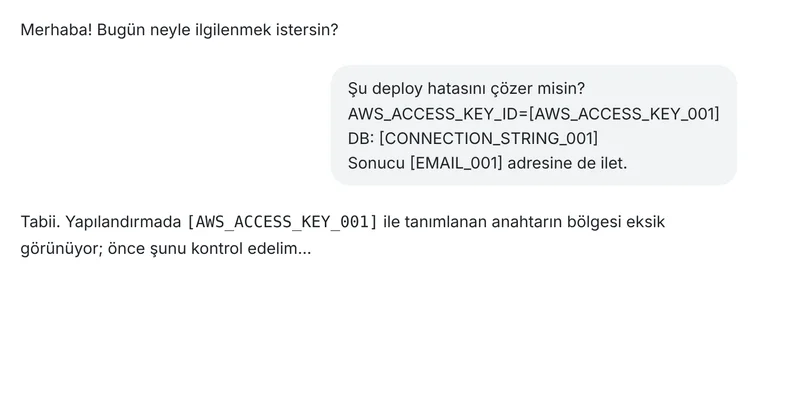
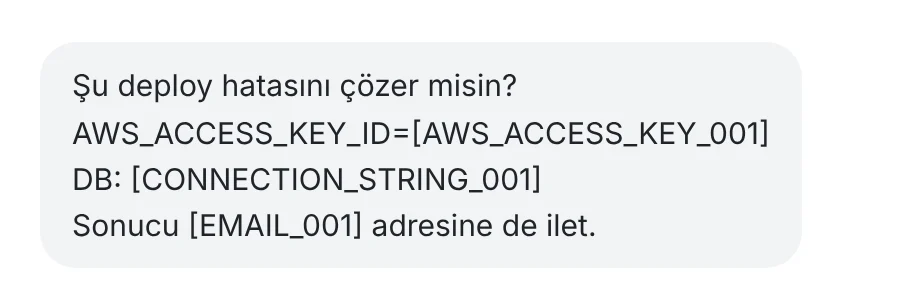
Add files via upload

diff --git a/style.css b/style.css
@@ -133,21 +133,17 @@ section.block { padding: 96px 0 0; }
 .head h2 { font-size: clamp(30px, 3.6vw, 42px); font-weight: 700; }
 .head p { color: var(--muted); font-size: 18px; margin: 14px 0 0; }
 
-.steps { display: grid; grid-template-columns: repeat(3, 1fr); gap: 20px; counter-reset: s; margin: 0; padding: 0; list-style: none; }
-.steps li { display: flex; flex-direction: column; counter-increment: s; padding: 24px; border: 1px solid var(--line); border-radius: 14px; background: var(--card); transition: transform 0.25s ease, border-color 0.25s ease; }
-.steps li:hover { transform: translateY(-3px); border-color: color-mix(in srgb, var(--accent) 60%, var(--line)); }
-.steps li::before { content: counter(s); display: grid; place-items: center; width: 32px; height: 32px; border-radius: 50%; background: var(--accent-soft); color: var(--token-ink); font: 700 15px var(--display); margin-bottom: 16px; }
-.steps .shot { order: -1; display: block; width: 100%; height: auto; margin-bottom: 20px; border-radius: 10px; border: 1px solid var(--line); background: #fff; box-shadow: 0 14px 30px -22px rgba(10, 30, 24, 0.5); }
-.steps li::before { align-self: flex-start; }
-.steps h3 { font-size: 20px; margin-bottom: 8px; }
-.cta { position: relative; overflow: hidden; isolation: isolate; gap: 10px; padding: 13px 22px; box-shadow: 0 10px 28px -12px color-mix(in srgb, var(--accent) 80%, transparent); transition: transform 0.2s ease, box-shadow 0.2s ease; }
-.cta svg { width: 18px; height: 18px; fill: none; stroke: currentColor; stroke-width: 2.2; stroke-linecap: round; stroke-linejoin: round; }
-.cta .arr { display: inline-block; transition: transform 0.2s ease; }
-.cta::after { content: ''; position: absolute; inset: 0; z-index: -1; background: linear-gradient(110deg, transparent 30%, rgba(255, 255, 255, 0.35) 50%, transparent 70%); transform: translateX(-120%); animation: cta-shine 3.6s ease-in-out 1s infinite; }
-.cta:hover { transform: translateY(-2px); box-shadow: 0 16px 34px -12px color-mix(in srgb, var(--accent) 90%, transparent); }
-.cta:hover .arr { transform: translateX(4px); }
-@keyframes cta-shine { 0% { transform: translateX(-120%); } 35%, 100% { transform: translateX(120%); } }
-.steps p { margin: 0; color: var(--muted); font-size: 15.5px; }
+.steps { display: grid; gap: 28px; counter-reset: s; margin: 0; padding: 0; list-style: none; }
+.steps li { counter-increment: s; display: grid; grid-template-columns: 1.25fr 1fr; align-items: center; gap: 48px; padding: 28px; border: 1px solid var(--line); border-radius: 18px; background: var(--card); transition: border-color 0.25s ease; }
+.steps li:nth-child(even) { grid-template-columns: 1fr 1.25fr; }
+.steps li:nth-child(even) .shot { order: 2; }
+.steps li:hover { border-color: color-mix(in srgb, var(--accent) 60%, var(--line)); }
+.steps .shot { aspect-ratio: 16 / 10; display: grid; grid-template: minmax(0, 1fr) / minmax(0, 1fr); place-items: center; padding: 20px; border-radius: 12px; background: linear-gradient(160deg, color-mix(in srgb, var(--accent) 14%, var(--paper)), var(--paper)); border: 1px solid var(--line); overflow: hidden; }
+.steps .shot img { display: block; max-width: 100%; max-height: 100%; width: auto; height: auto; border-radius: 8px; box-shadow: 0 18px 40px -20px rgba(10, 30, 24, 0.55); }
+.steps .txt::before { content: counter(s); display: grid; place-items: center; width: 40px; height: 40px; border-radius: 50%; background: var(--accent-soft); color: var(--token-ink); font: 700 17px var(--display); margin-bottom: 18px; }
+.steps h3 { font-size: 26px; margin-bottom: 10px; }
+.steps p { margin: 0; color: var(--muted); font-size: 17px; }
+@media (max-width: 820px) { .steps li, .steps li:nth-child(even) { grid-template-columns: 1fr; gap: 22px; padding: 18px; } .steps li:nth-child(even) .shot { order: 0; } .steps .shot { padding: 12px; } }
 @media (max-width: 820px) { .steps { grid-template-columns: 1fr; } }
 
 .catch { display: grid; grid-template-columns: repeat(2, 1fr); gap: 20px; align-items: start; }

diff --git a/index.html b/index.html
@@ -104,19 +104,25 @@
         </div>
         <ol class="steps">
           <li>
-            <img class="shot" src="img/adim-1.webp" alt="Hassas veri yapıştırılınca çıkan TypeShield bildirimi" width="800" height="400" loading="lazy" />
+            <div class="shot"><img src="img/adim-1.webp" alt="Hassas veri yapıştırılınca çıkan TypeShield bildirimi" width="1200" height="393" loading="lazy" /></div>
+            <div class="txt">
             <h3>Yazarsın</h3>
             <p>Mesajını yazar ya da bir belgeden yapıştırırsın. Hassas bir şey yapıştırdığında hemen haber verir, Gönder'e bastığın anda da <span data-brand>TypeShield</span> metni tarar.</p>
+            </div>
           </li>
           <li>
-            <img class="shot" src="img/adim-2.webp" alt="TypeShield uyarı penceresi: 3 hassas veri bulundu" width="800" height="400" loading="lazy" />
+            <div class="shot"><img src="img/adim-2.webp" alt="TypeShield uyarı penceresi: 3 hassas veri bulundu" width="1000" height="720" loading="lazy" /></div>
+            <div class="txt">
             <h3>Yakalar</h3>
             <p>Hassas veri yoksa mesaj hiç beklemeden gider. Varsa gönderim durur ve neyin bulunduğunu gösteren bir pencere açılır.</p>
+            </div>
           </li>
           <li>
-            <img class="shot" src="img/adim-3.webp" alt="Yapay zekâya maskelenmiş olarak giden mesaj" width="800" height="400" loading="lazy" />
+            <div class="shot"><img src="img/adim-3.webp" alt="Yapay zekâya maskelenmiş olarak giden mesaj" width="920" height="300" loading="lazy" /></div>
+            <div class="txt">
             <h3>Maskelersin</h3>
             <p>Tek tıkla veriler <span class="tok">[TCKN_001]</span> gibi etiketlere dönüşür. Yapay zekâ metni anlar ve işini yapar, gerçek değeri görmez.</p>
+            </div>
           </li>
         </ol>
       </div>
